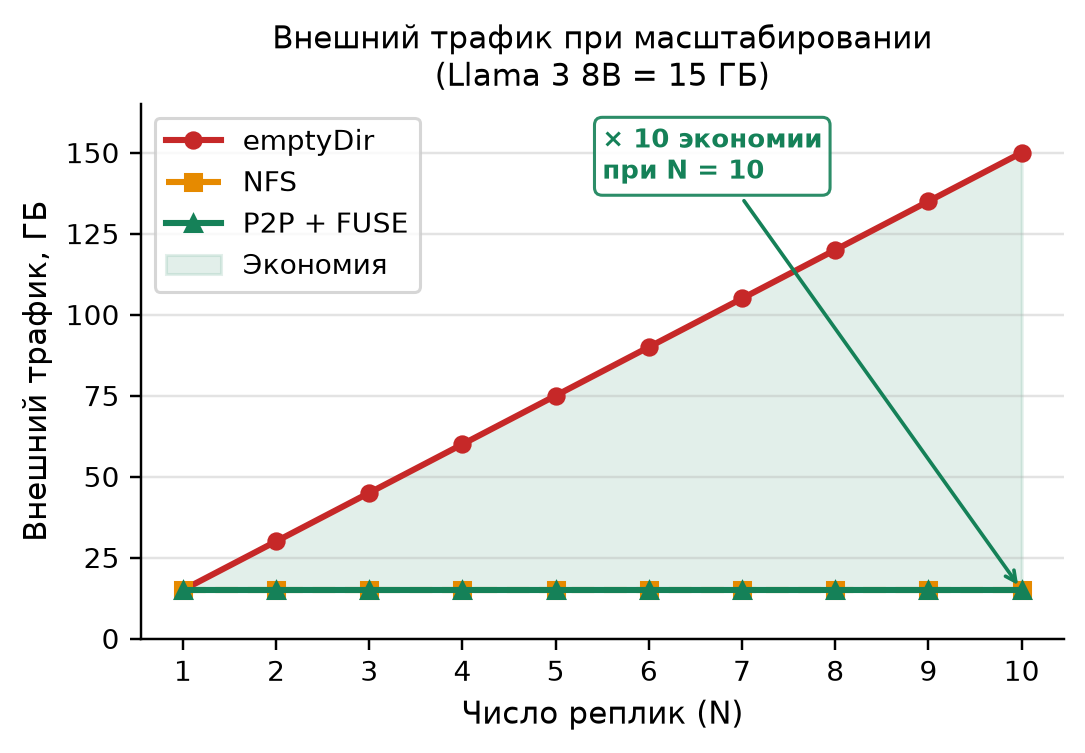
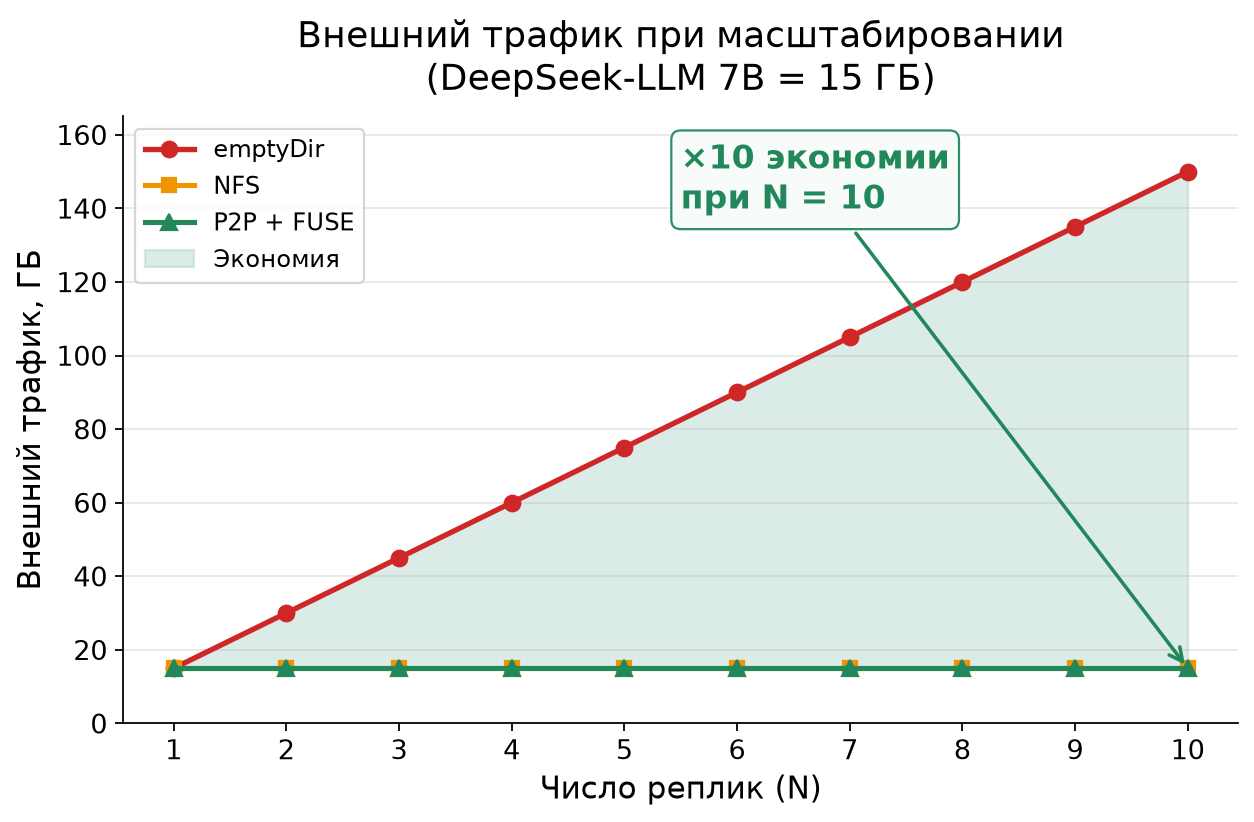
feat: init diploma

diff --git a/diploma-latex-template/mablinov/contents/2-01-cold-start-problem.tex b/diploma-latex-template/mablinov/contents/2-01-cold-start-problem.tex
@@ -21,7 +21,7 @@
 
 Выход GPT-3 в 2020~году ознаменовал качественный скачок: 175~миллиардов параметров потребовали около 350~ГБ дискового пространства для хранения весов в 16-битном формате~\cite{gpt3_2020}. Для загрузки такого объёма по каналу 10~Гбит/с требуется около 280~секунд — почти пять минут только на передачу данных. В реальных условиях с конкурентными запросами из других подов это время возрастает существенно.
 
-Тенденция к открытым моделям, начавшаяся с выпуска семейства Llama компании Meta, расширила доступ исследователей и производственных команд к крупным моделям. Llama~3 (2024) включает варианты с 8, 70 и 405~миллиардами параметров; расчётный объём основных весов модели Llama~3~70B в формате FP16 составляет около 140~ГБ~\cite{llamapaper2024}.
+Тенденция к открытым моделям, усиленная развитием семейства DeepSeek, расширила доступ исследователей и производственных команд к крупным моделям. В работе DeepSeek-LLM рассматриваются конфигурации 7B и 67B параметров, а расчётный объём основных весов варианта DeepSeek-LLM~67B в формате FP16 составляет около 134~ГБ~\cite{deepseekllm_2024}. Следующее поколение, DeepSeek~V2, уже переходит в диапазон сотен миллиардов параметров~\cite{deepseekv2_2024}.
 
 \begin{table}[htbp]
 \centering
@@ -36,11 +36,9 @@ BERT Base        & 2018 & Transformer & 110~млн   & $\approx$0.22~ГБ & Ма
 GPT-2 XL         & 2019 & Transformer & 1.5~млрд  & $\approx$3~ГБ    & Умеренное \\
 T5-11B           & 2020 & Transformer & 11~млрд   & $\approx$22~ГБ   & Существенное \\
 GPT-3            & 2020 & Transformer & 175~млрд  & $\approx$350~ГБ  & Критическое \\
-LLaMA 1 7B       & 2023 & Transformer & 6.7~млрд  & $\approx$13.4~ГБ & Существенное \\
-Llama~2~70B      & 2023 & Transformer & 70~млрд   & $\approx$140~ГБ  & Критическое \\
+DeepSeek-LLM~7B  & 2024 & Transformer & 7~млрд    & $\approx$14~ГБ   & Существенное \\
+DeepSeek-LLM~67B & 2024 & Transformer & 67~млрд   & $\approx$134~ГБ  & Критическое \\
 Falcon~180B      & 2023 & Transformer & 180~млрд  & $\approx$360~ГБ  & Критическое \\
-Llama~3~8B       & 2024 & Transformer & 8~млрд    & $\approx$16~ГБ   & Существенное \\
-Llama~3~70B      & 2024 & Transformer & 70~млрд   & $\approx$140~ГБ  & Критическое \\
 \shortstack[l]{Mixtral\\8$\times$22B} & 2024 & MoE & 141~млрд & $\approx$282~ГБ & Критическое \\
 DeepSeek~V2     & 2024 & MoE         & 235.7~млрд & $\approx$472~ГБ & Критическое \\
 GLM-4.5         & 2025 & MoE         & 358.3~млрд & $\approx$717~ГБ & Критическое \\
@@ -49,7 +47,7 @@ GLM-4.5         & 2025 & MoE         & 358.3~млрд & $\approx$717~ГБ & Кр
 \end{tabularx}
 \end{table}
 
-Значения в таблице получены как произведение числа параметров на два байта, то есть описывают только основные тензоры в FP16 и используют десятичный гигабайт ($10^9$ байт). Фактический размер репозитория зависит от формата сериализации, разбиения на файлы и служебных данных. Для Mixtral~8$\times$22B приведены все 141~млрд параметров, хотя на одном токене активируется 39~млрд. Число параметров приведено по первичным публикациям и карточкам моделей~\cite{bert2018,gpt2_2019,t5_2020,gpt3_2020,llama1_2023,llama2_2023,falcon2023,llamapaper2024,mixtral2024,deepseekv2_2024,glm45_2025,deepseekv4_2026}.
+Значения в таблице получены как произведение числа параметров на два байта, то есть описывают только основные тензоры в FP16 и используют десятичный гигабайт ($10^9$ байт). Фактический размер репозитория зависит от формата сериализации, разбиения на файлы и служебных данных. Для Mixtral~8$\times$22B приведены все 141~млрд параметров, хотя на одном токене активируется 39~млрд. Число параметров приведено по первичным публикациям и карточкам моделей~\cite{bert2018,gpt2_2019,t5_2020,gpt3_2020,deepseekllm_2024,falcon2023,mixtral2024,deepseekv2_2024,glm45_2025,deepseekv4_2026}.
 
 Таблица~\ref{tab:model_sizes} демонстрирует, что за период с 2018 по 2026~год расчётный объём весов ведущих моделей вырос от сотен мегабайт до терабайт --- почти на четыре порядка. Если для BERT~Base загрузка занимала секунды, то для DeepSeek~V4~Pro при той же пропускной способности сети она может занимать часы. Именно это изменение масштаба превращает загрузку весов из тривиальной операции в доминирующий компонент задержки холодного старта.
 
@@ -103,7 +101,7 @@ T_{\mathrm{start}} = T_{\mathrm{schedule}} + T_{\mathrm{pull}} + T_{\mathrm{unpa
 
 \subsubsection{Фаза загрузки весов из репозитория: $T_{\mathrm{download}}$}
 
-Компонент $T_{\mathrm{download}}$ является наиболее критичным с точки зрения зависимости от размера модели. При линейном росте объёма весов это слагаемое растёт пропорционально. Для Llama~3~8B (около 16~ГБ) при канале 1~Гбит/с без конкуренции загрузка занимает ориентировочно 128~секунд; для Llama~3~70B (около 140~ГБ) --- уже порядка 1120~секунд, то есть около 19~минут~\cite{bentoml2024cold}.
+Компонент $T_{\mathrm{download}}$ является наиболее критичным с точки зрения зависимости от размера модели. При линейном росте объёма весов это слагаемое растёт пропорционально. Для DeepSeek-LLM~7B (порядка 15~ГБ) при канале 1~Гбит/с без конкуренции загрузка занимает ориентировочно 120~секунд; для DeepSeek-LLM~67B (порядка 140~ГБ) --- уже порядка 1120~секунд, то есть около 19~минут~\cite{bentoml2024cold}.
 
 Ключевая особенность проблемы состоит в том, что при масштабировании до $N$ реплик на разных нодах внешний репозиторий получает $N$ независимых запросов на один и тот же набор файлов. Каждый init-контейнер выполняет полную загрузку, игнорируя тот факт, что те же данные могут уже присутствовать на соседних нодах кластера.
 
@@ -115,18 +113,18 @@ T_{\mathrm{start}} = T_{\mathrm{schedule}} + T_{\mathrm{pull}} + T_{\mathrm{unpa
 
 \subsubsection{Фаза загрузки в GPU-память: $T_{\mathrm{load}}$}
 
-После того как файлы весов оказались в \texttt{emptyDir}, runtime-контейнер (vLLM, TGI, Triton) считывает их с диска и загружает в GPU-память. Для Llama~3~8B эта операция занимает ориентировочно 60--120~секунд; для крупных моделей --- несколько минут. Кроме того, некоторые inference-движки, в частности vLLM, выполняют компиляцию графа CUDA и профилирование KV-кэша, что дополнительно увеличивает $T_{\mathrm{load}}$~\cite{bentoml2024cold}.
+После того как файлы весов оказались в \texttt{emptyDir}, runtime-контейнер (vLLM, TGI, Triton) считывает их с диска и загружает в GPU-память. Для модели класса DeepSeek-LLM~7B эта операция занимает ориентировочно 60--120~секунд; для крупных моделей --- несколько минут. Кроме того, некоторые inference-движки, в частности vLLM, выполняют компиляцию графа CUDA и профилирование KV-кэша, что дополнительно увеличивает $T_{\mathrm{load}}$~\cite{bentoml2024cold}.
 
 \subsubsection{Итоговый характер задержки}
 
-Для типичного контейнера с моделью Llama~3.1~8B суммарная задержка холодного старта на чистом узле складывается ориентировочно следующим образом: $T_{\mathrm{pull}} + T_{\mathrm{unpack}} \approx 5$--8~мин; $T_{\mathrm{download}} \approx 2$--5~мин; $T_{\mathrm{load}} \approx 1$--3~мин. Итоговое время в зависимости от конфигурации сети и дисков может превышать 10--15~минут~\cite{bentoml2024cold}.
+Для типичного контейнера с моделью семейства DeepSeek объёмом порядка 15~ГБ суммарная задержка холодного старта на чистом узле складывается ориентировочно следующим образом: $T_{\mathrm{pull}} + T_{\mathrm{unpack}} \approx 5$--8~мин; $T_{\mathrm{download}} \approx 2$--5~мин; $T_{\mathrm{load}} \approx 1$--3~мин. Итоговое время в зависимости от конфигурации сети и дисков может превышать 10--15~минут~\cite{bentoml2024cold}.
 
 При этом задержка масштабируется нелинейно: при переходе от 8B к 70B параметров $T_{\mathrm{download}}$ возрастает пропорционально размеру весов, тогда как $T_{\mathrm{load}}$ дополнительно зависит от скорости шины памяти GPU и конкретного inference-движка.
 
 \begin{figure}[htbp]
 \centering
 \includegraphics[width=0.88\textwidth]{chart_cold_start_breakdown.png}
-\caption{Декомпозиция задержки холодного старта для Llama~3~8B (15~ГБ, канал 200~МБ/с). Фаза загрузки весов ($T_{\mathrm{download}} \approx 75$~с) составляет около 80\% суммарного времени~$\approx 94$~с.}
+\caption{Декомпозиция задержки холодного старта для DeepSeek-LLM~7B (15~ГБ, канал 200~МБ/с). Фаза загрузки весов ($T_{\mathrm{download}} \approx 75$~с) составляет около 80\% суммарного времени~$\approx 94$~с.}
 \label{fig:cold_start_breakdown}
 \end{figure}
 

diff --git a/diploma-latex-template/mablinov/contents/2-05-evaluation.tex b/diploma-latex-template/mablinov/contents/2-05-evaluation.tex
@@ -13,7 +13,7 @@
 
 Redis развёртывается в конфигурации Redis Sentinel: 1 master, 2 replica, автоматический failover при недоступности master. Размер чанка зафиксирован на уровне 16~МБ как компромисс между накладными расходами на метаданные (меньший чанк --- больше записей в Redis) и гранулярностью параллельной загрузки (более крупный чанк снижает степень P2P-параллелизма).
 
-Набор тестовых моделей включает: Llama~3~8B ($\approx 15$~ГБ, $\approx 960$ чанков), Mistral~7B ($\approx 14$~ГБ, $\approx 896$ чанков) и Llama~3~70B ($\approx 140$~ГБ, $\approx 8960$ чанков). Для воспроизводимости результатов в отсутствие GPU runtime-контейнер заменяется синтетическим читателем, который последовательно читает все файлы модели через FUSE-точку монтирования и фиксирует время до первого байта и общее время чтения.
+Набор тестовых моделей включает: DeepSeek-LLM~7B ($\approx 15$~ГБ, $\approx 960$ чанков), Mistral~7B ($\approx 14$~ГБ, $\approx 896$ чанков) и DeepSeek-LLM~67B ($\approx 140$~ГБ, $\approx 8960$ чанков). Для воспроизводимости результатов в отсутствие GPU runtime-контейнер заменяется синтетическим читателем, который последовательно читает все файлы модели через FUSE-точку монтирования и фиксирует время до первого байта и общее время чтения.
 
 \subsubsection*{Процедура эксперимента}
 
@@ -121,7 +121,7 @@ Redis развёртывается в конфигурации Redis Sentinel: 1
 \end{equation}
 где $B_{\mathrm{local}}$ --- скорость чтения с локального диска, $B_i$ --- пропускная способность $i$-го пира.
 
-Рассмотрим численный пример для модели Llama~3~8B ($S = 15$~ГБ):
+Рассмотрим численный пример для модели DeepSeek-LLM~7B ($S = 15$~ГБ):
 \begin{itemize}[leftmargin=*]
   \item \textbf{Baseline}: $k = 0$, $B_{\mathrm{local}} = 0$ (диск не используется), $B_{\mathrm{HF}} = 200$~МБ/с. $T_{\mathrm{download}} = 15000 / 200 \approx 75$~с.
   \item \textbf{Peer cache, $k = 1$}: $B_{\mathrm{local}} = 1250$~МБ/с (10~Гбит/с). $T_{\mathrm{download}} = 15000 / 1250 \approx 12$~с --- ускорение в $\approx 6.3$ раза.
@@ -186,14 +186,14 @@ SPOF & Нет & NFS-сервер & Redis (с HA~---~нет) \\
 \begin{figure}[htbp]
 \centering
 \includegraphics[width=0.88\textwidth]{chart_tmodel_ready.png}
-\caption{Время готовности модели ($T_{\mathrm{model\_ready}}$) по сценариям для Llama~3~8B (15~ГБ). При наличии локального кэша P2P/FUSE-подход обеспечивает $T_{\mathrm{model\_ready}} = 1.9$~с против 74.8~с у baseline.}
+\caption{Время готовности модели ($T_{\mathrm{model\_ready}}$) по сценариям для DeepSeek-LLM~7B (15~ГБ). При наличии локального кэша P2P/FUSE-подход обеспечивает $T_{\mathrm{model\_ready}} = 1.9$~с против 74.8~с у baseline.}
 \label{fig:tmodel_ready}
 \end{figure}
 
 \begin{figure}[htbp]
 \centering
 \includegraphics[width=0.82\textwidth]{chart_external_traffic.png}
-\caption{Суммарный внешний трафик при масштабировании до $N$ реплик (Llama~3~8B, 15~ГБ). Подходы NFS и P2P/FUSE загружают модель однократно независимо от числа реплик; emptyDir генерирует $N \times 15$~ГБ трафика.}
+\caption{Суммарный внешний трафик при масштабировании до $N$ реплик (DeepSeek-LLM~7B, 15~ГБ). Подходы NFS и P2P/FUSE загружают модель однократно независимо от числа реплик; emptyDir генерирует $N \times 15$~ГБ трафика.}
 \label{fig:external_traffic}
 \end{figure}
 

diff --git a/diploma-latex-template/mablinov/contents/0-abstract.tex b/diploma-latex-template/mablinov/contents/0-abstract.tex
@@ -1,8 +1,11 @@
 \abstract
 
+\begingroup
+\renewcommand\keywords[1]{\indent #1}
 \keywords{ИИ, ОБЛАЧНАЯ ПЛАТФОРМА, БОЛЬШАЯ ЯЗЫКОВАЯ МОДЕЛЬ, МАШИННОЕ ОБУЧЕНИЕ, БЕССЕРВЕРНЫЕ ВЫЧИСЛЕНИЯ, ХОЛОДНЫЙ СТАРТ, ИНФЕРЕНС, КЭШИРОВАНИЕ, KUBERNETES, KUBEBUILDER, CONTAINER STORAGE INTERFACE, P2P, FUSE, МИКРОСЕРВИСЫ, GOLANG, HIGHLOAD}
+\endgroup
 
-Объектом разрабоки в данной работе является инфраструктура бессерверного инференса моделей машинного обучения, развернутая в среде Kubernetes с применением механизма масштабирования до нуля.
+\textbf{Объект исследования} --- инфраструктура бессерверного инференса моделей машинного обучения, развернутая в среде Kubernetes с применением механизма масштабирования до нуля.
 
 \textbf{Предмет исследования} --- методы кэширования, доставки и виртуализации доступа к файлам весов ML-моделей при холодном старте инференс-подов в Kubernetes-кластере.
 

diff --git a/diploma-latex-template/mablinov/contents/1-introduction.tex b/diploma-latex-template/mablinov/contents/1-introduction.tex
@@ -5,7 +5,7 @@
 
 \subsection*{Актуальность темы}
 
-Развитие методов машинного обучения привело к смещению отрасли от относительно небольших классических моделей к крупным языковым моделям (LLM, Large Language Model), мультимодальным архитектурам и диффузионным генераторам. Число параметров современных моделей выросло с сотен миллионов (BERT~\cite{bert2018}, 2018) до сотен миллиардов (Llama~3 70B~\cite{llamapaper2024}, Falcon~180B~\cite{falcon2023}), а размер хранимых весов --- с сотен мегабайт до сотен гигабайт. Несмотря на тенденцию к повышению плотности возможностей моделей~\cite{capability_density}, state-of-the-art результаты по-прежнему требуют архитектур колоссального масштаба.
+Развитие методов машинного обучения привело к смещению отрасли от относительно небольших классических моделей к крупным языковым моделям (LLM, Large Language Model), мультимодальным архитектурам и диффузионным генераторам. Число параметров современных моделей выросло с сотен миллионов (BERT~\cite{bert2018}, 2018) до десятков и сотен миллиардов, что подтверждается развитием DeepSeek-LLM~67B~\cite{deepseekllm_2024}, Falcon~180B~\cite{falcon2023} и DeepSeek~V2~\cite{deepseekv2_2024}; вместе с этим размер хранимых весов увеличился с сотен мегабайт до сотен гигабайт. Несмотря на тенденцию к повышению плотности возможностей моделей~\cite{capability_density}, state-of-the-art результаты по-прежнему требуют архитектур колоссального масштаба.
 
 Одновременно индустрия уверенно движется в сторону бессерверного инференса (serverless inference) --- модели эксплуатации, при которой облачная платформа автоматически масштабирует сервисы в ответ на изменение нагрузки, включая масштабирование до нуля активных реплик при отсутствии входящих запросов. Данная модель реализована в таких платформах, как Knative~\cite{knative} --- открытый стандарт на базе Kubernetes, поддерживаемый Google, IBM и Red Hat; OpenFaaS --- система развёртывания функций в Kubernetes-кластере; Amazon Web Services Lambda --- управляемая serverless-платформа публичного облака; а также KServe~\cite{kserve} --- стандартизованная платформа для ML-инференса с поддержкой scale-to-zero. Эти платформы позволяют значительно экономить ресурсы кластера: ноды не удерживают вычислительные мощности для простаивающих сервисов, а плата взимается только за фактически обработанные запросы.
 
@@ -17,7 +17,7 @@
 
 Классический подход к загрузке весов в Kubernetes использует init-контейнер \texttt{storage-initializer}, который скачивает файлы из внешнего репозитория (HuggingFace, Ollama, ModelScope) в том \texttt{emptyDir}, после чего основной runtime-контейнер загружает эти веса в GPU-память. При горизонтальном масштабировании каждая новая реплика повторяет загрузку заново, не используя данные, уже скачанные другими репликами или оставшиеся на диске ноды от предыдущих запусков.
 
-Масштаб проблемы нагляден на конкретном примере. Предположим, что burst-событие порождает 10 реплик инференса для модели Llama~3 8B с весами объёмом $\approx$15~ГБ. При использовании \texttt{emptyDir}-подхода каждая реплика независимо скачивает модель из HuggingFace Hub:
+Масштаб проблемы нагляден на конкретном примере. Предположим, что burst-событие порождает 10 реплик инференса для модели DeepSeek-LLM~7B с весами объёмом порядка 15~ГБ. При использовании \texttt{emptyDir}-подхода каждая реплика независимо скачивает модель из HuggingFace Hub:
 \[
   V_{\mathrm{total}} = N \times S_{\mathrm{model}} = 10 \times 15~\text{ГБ} = 150~\text{ГБ}
 \]

diff --git a/diploma-latex-template/mablinov/contents/2-02-existing-solutions.tex b/diploma-latex-template/mablinov/contents/2-02-existing-solutions.tex
@@ -121,13 +121,13 @@ Dragonfly --- P2P-система распределения файлов и ко
 
 CubeFS --- облачно-ориентированная распределённая файловая система уровня CNCF Graduated \cite{cubefs_arch}, разработанная JD.com. Система предоставляет унифицированное хранилище с поддержкой нескольких протоколов доступа и предназначена для высоконагруженных производственных сред.
 
-\textbf{Архитектура.} CubeFS включает несколько подсистем. \textit{Master-узлы} управляют ресурсами кластера: отслеживают состояние Meta Nodes и Data Nodes, управляют томами и обеспечивают согласованность конфигурации с использованием Raft и RocksDB. \textit{Meta Nodes} управляют шардами метаданных (Meta Partition). Каждый шард содержит две B-Tree структуры в памяти: inode B-Tree и dentry B-Tree. Минимальная конфигурация требует трёх экземпляров. \textit{Data Nodes} управляют шардами данных (Data Partition) и образуют репликационные группы. CubeFS поддерживает как репликацию данных, так и Erasure Coding (через подсистему Blobstore) для более эффективного использования дискового пространства. Объектный шлюз (Object Subsystem) предоставляет S3-совместимый API.
+\textbf{Архитектура.} CubeFS включает несколько подсистем. \textit{Master-узлы} управляют ресурсами кластера: отслеживают состояние узлов метаданных и узлов данных, управляют томами и обеспечивают согласованность конфигурации с использованием Raft и RocksDB. \textit{Узлы метаданных} управляют шардами метаданных (metadata partition). Каждый шард содержит две B-Tree структуры в памяти: inode B-Tree и dentry B-Tree. Минимальная конфигурация требует трёх экземпляров. \textit{Data Nodes} управляют шардами данных (Data Partition) и образуют репликационные группы. CubeFS поддерживает как репликацию данных, так и Erasure Coding (через подсистему Blobstore) для более эффективного использования дискового пространства. Объектный шлюз (Object Subsystem) предоставляет S3-совместимый API.
 
 \textbf{Поддерживаемые протоколы.} CubeFS поддерживает POSIX, S3 и HDFS-интерфейсы, а также CSI-драйвер для Kubernetes. Мультипротокольная поддержка делает систему гибкой для смешанных рабочих нагрузок, где различные компоненты ML-платформы используют разные интерфейсы доступа к данным.
 
 \textbf{Применимость к ML-инференсу.} CubeFS обеспечивает высокую пропускную способность для крупных файлов за счёт параллелизма Data Nodes. POSIX-совместимость позволяет использовать систему для хранения и одновременного доступа к файлам весов модели из нескольких реплик инференса. Репликация данных обеспечивает отказоустойчивость при выходе из строя отдельных узлов.
 
-\textbf{Ограничения.} Сложность развёртывания CubeFS сопоставима с Ceph: кластер требует управления несколькими типами узлов (Master, MetaNode, DataNode), настройки репликации, мониторинга состояния и обеспечения кворума Meta Nodes. Для небольших и средних ML-платформ операционные требования несоразмерны задаче. Кроме того, CubeFS проектировалась как система хранения общего назначения, а не как специализированный кэш для бессерверного инференса: в ней отсутствуют P2P-доставка чанков и встроенный механизм lazy loading для ML-весов.
+\textbf{Ограничения.} Сложность развёртывания CubeFS сопоставима с Ceph: кластер требует управления несколькими типами узлов (Master, узел метаданных, DataNode), настройки репликации, мониторинга состояния и обеспечения кворума узлов метаданных. Для небольших и средних ML-платформ операционные требования несоразмерны задаче. Кроме того, CubeFS проектировалась как система хранения общего назначения, а не как специализированный кэш для бессерверного инференса: в ней отсутствуют P2P-доставка чанков и встроенный механизм lazy loading для ML-весов.
 
 \subsubsection*{Rook/Ceph}
 

diff --git a/diploma-latex-template/mablinov/contents/2-04-p2p-fuse-architecture.tex b/diploma-latex-template/mablinov/contents/2-04-p2p-fuse-architecture.tex
@@ -36,8 +36,8 @@
 
 \begin{itemize}[leftmargin=*]
   \item \textbf{registry} --- источник модели: \texttt{huggingface}, \texttt{ollama}, \texttt{modelscope};
-  \item \textbf{repository} --- пространство имён владельца (например, \texttt{meta-llama});
-  \item \textbf{model} --- имя модели (например, \texttt{Llama-3-70B-Instruct});
+  \item \textbf{repository} --- пространство имён владельца (например, \texttt{deepseek-ai});
+  \item \textbf{model} --- имя модели (например, \texttt{DeepSeek-LLM-67B-Chat});
   \item \textbf{revision} --- версия модели (commit hash или тег); обеспечивает иммутабельность кэша;
   \item \textbf{filepath} --- относительный путь к файлу внутри репозитория (например, \texttt{model-00001-of-00004.safetensors});
   \item \textbf{chunk\_id} --- порядковый номер чанка в файле (начиная с 0);

diff --git a/progress.md b/progress.md
@@ -277,3 +277,25 @@
 - Ключевые решения: значение кафедры вынесено в `\department{806}`, чтобы жирным оставалась только подпись `Кафедра`, а номер кафедры оформлялся отдельным подчёркнутым полем стандартного начертания. Локальное переопределение `\makeAffiliations` сохранено только в `mablinov`, а результат дополнительно проверен по отрендеренной первой странице `main.pdf`.
 - Проверка объёма: не применялась, так как изменено только оформление титульного листа, а не текст разделов диплома
 - Следующий рекомендуемый шаг: при необходимости аналогично донастроить остальные подписи на титульном листе `mablinov`, не меняя общий шаблон
+
+## 2026-06-22 04:18 — Добавление абзацного отступа для ключевых слов в реферате `mablinov`
+
+- Статус: выполнено
+- Сгенерировано: для строки с ключевыми словами в реферате добавлен абзацный отступ локально в файле раздела; PDF пересобран после изменения
+- Файлы: `diploma-latex-template/mablinov/contents/0-abstract.tex`, `diploma-latex-template/mablinov/main.pdf`
+- Основание из плана: `content/todo.md` — раздел 1 «Реферат»
+- Использованные материалы: `prompt.md`, `content/todo.md`, `progress.md`, `diploma-latex-template/diploma/styles/12-abstract.sty`, `diploma-latex-template/mablinov/contents/0-abstract.tex`
+- Ключевые решения: общий шаблон `diploma` не изменялся; команда `\keywords` была локально переопределена только внутри `0-abstract.tex`, чтобы добавить стандартный абзацный отступ перед перечнем ключевых слов и не затронуть остальные документы шаблона.
+- Проверка объёма: `python3 scripts/report_stats.py diploma-latex-template/mablinov/contents/0-abstract.tex` — words=241, chars=2159; в пределах лимита 1--2 страниц для реферата. `./run-new.sh` завершился успешно.
+- Следующий рекомендуемый шаг: при необходимости аналогично локально донастроить отступы и выравнивание остальных служебных блоков реферата `mablinov`
+
+## 2026-06-22 04:33 — Замена упоминаний `Llama`/`Meta` на линейку `DeepSeek` в `mablinov`
+
+- Статус: выполнено
+- Сгенерировано: в тексте диплома и библиографии удалены упоминания семейства `Llama` и вендора `Meta`; примеры моделей, таблица роста весов, экспериментальные сценарии и подписи графиков приведены к согласованной линейке `DeepSeek-LLM`/`DeepSeek`; итоговый PDF пересобран
+- Файлы: `diploma-latex-template/mablinov/main.bib`, `diploma-latex-template/mablinov/contents/1-introduction.tex`, `diploma-latex-template/mablinov/contents/2-01-cold-start-problem.tex`, `diploma-latex-template/mablinov/contents/2-02-existing-solutions.tex`, `diploma-latex-template/mablinov/contents/2-04-p2p-fuse-architecture.tex`, `diploma-latex-template/mablinov/contents/2-05-evaluation.tex`, `diploma-latex-template/mablinov/figures/chart_tmodel_ready.png`, `diploma-latex-template/mablinov/figures/chart_external_traffic.png`, `diploma-latex-template/mablinov/main.pdf`
+- Основание из плана: `content/todo.md` — введение, раздел 1 «Проблема холодного старта ML-моделей», раздел 2 «Анализ существующих решений», раздел 4 «Разработка P2P/FUSE-системы», раздел 5 «Оценка эффективности и надёжности»
+- Использованные материалы: `prompt.md`, `content/todo.md`, `progress.md`, `diploma-latex-template/mablinov/main.bib`, `diploma-latex-template/mablinov/contents/1-introduction.tex`, `diploma-latex-template/mablinov/contents/2-01-cold-start-problem.tex`, `diploma-latex-template/mablinov/contents/2-02-existing-solutions.tex`, `diploma-latex-template/mablinov/contents/2-04-p2p-fuse-architecture.tex`, `diploma-latex-template/mablinov/contents/2-05-evaluation.tex`, arXiv `DeepSeek LLM: Scaling Open-Source Language Models with Longtermism`
+- Ключевые решения: для научной согласованности введён единый источник `deepseekllm_2024`, а примеры 8B/70B-класса заменены на `DeepSeek-LLM 7B` и `DeepSeek-LLM 67B` с сохранением прежнего порядка оценок по объёму и трафику. Два PNG-графика с заголовками по экспериментам были перегенерированы, чтобы в визуальных артефактах также не осталось старых названий. Дополнительно термин `Meta Nodes` в обзоре CubeFS переведён на русский, чтобы в чистовом тексте не оставалось standalone `Meta`.
+- Проверка объёма: `python3 scripts/report_stats.py diploma-latex-template/mablinov/contents` — `0-abstract.tex` words=233 chars=2113; `1-introduction.tex` words=1260 chars=10594; `2-01-cold-start-problem.tex` words=3019 chars=23984; `2-02-existing-solutions.tex` words=3121 chars=26354; `2-03-nfs-stage.tex` words=2849 chars=23309; `2-04-p2p-fuse-architecture.tex` words=6336 chars=50987; `2-05-evaluation.tex` words=1956 chars=14939; `3-conclusion.tex` words=790 chars=6578; `glossary.tex` words=248 chars=1987; `terms.tex` words=439 chars=3945. `./run-new.sh` завершился успешно; после пересборки точечный поиск по `diploma-latex-template/mablinov` не обнаружил `Llama` и standalone `Meta`
+- Следующий рекомендуемый шаг: при необходимости аналогично синхронизировать версии `result/` и `final/` с обновлённой линейкой `DeepSeek`, чтобы во всех производных артефактах использовать единые примеры моделей